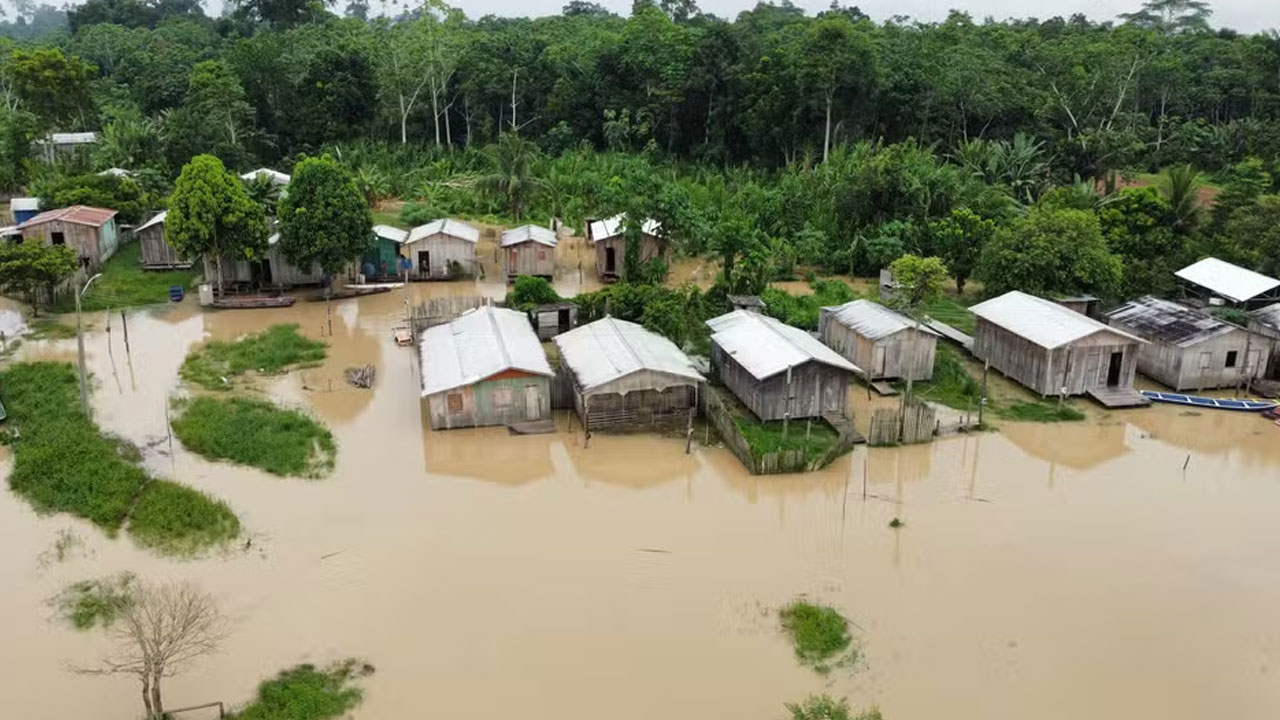
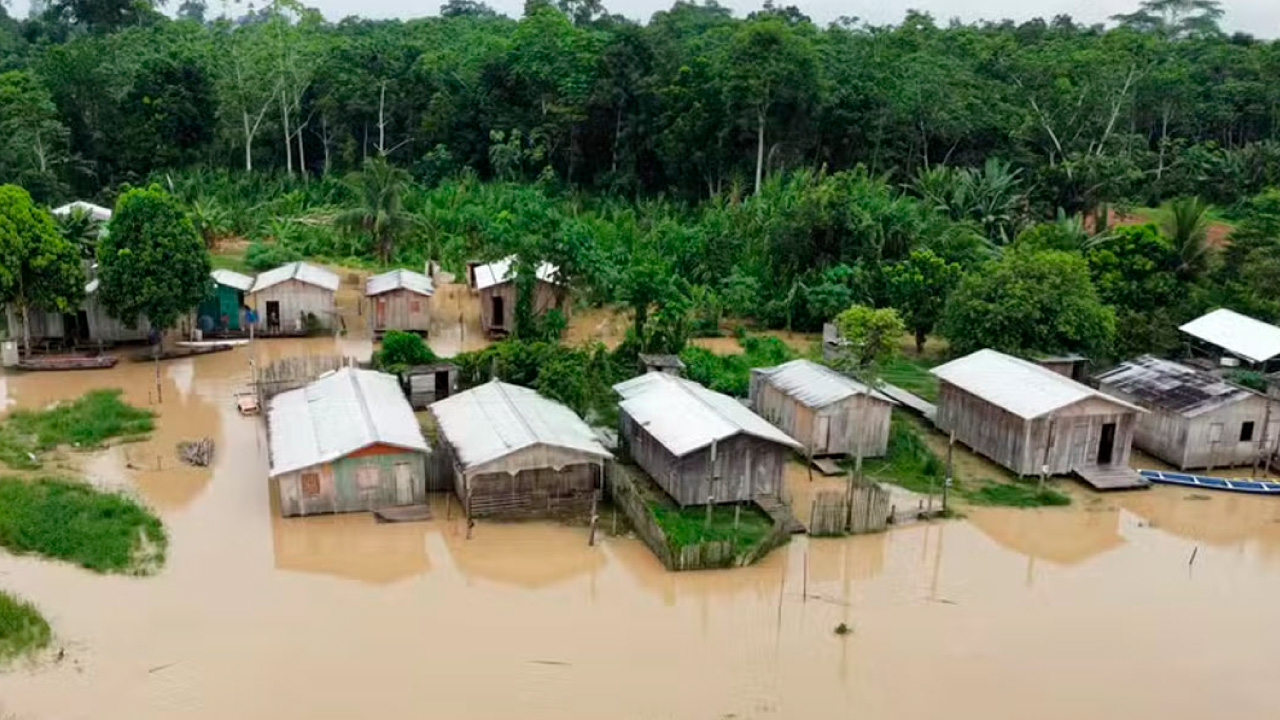
Ajuste cards aula 3.1

diff --git a/modulo3/aula1.html b/modulo3/aula1.html
@@ -158,12 +158,12 @@
 										<img src="../media/images/modulo3/aula1-img2.jpg" alt="">
 									</div>
 
-									<div class="card-header h-100">
-										<span class="">Os efeitos da seca prolongada em todo o país</span>
+									<div class="card-body py-2">
+										<p class="figure-caption fonte">Fonte: Arquivo/Agência Brasil</p>
 									</div>
 
-									<div class="card-body">
-										<p>Fonte: Arquivo/Agência Brasil</p>
+									<div class="card-header h-100">
+										<span class="">Os efeitos da seca prolongada em todo o país</span>
 									</div>
 								</div>
 							</div>
@@ -174,12 +174,12 @@
 										<img src="../media/images/modulo3/aula1-img3.jpg" alt="">
 									</div>
 
-									<div class="card-header h-100">
-										<span class="">Inundações graduais da Amazônia</span>
+									<div class="card-body py-2">
+										<p class="figure-caption fonte">Fonte: Divulgação/Defesa Civil</p>
 									</div>
 
-									<div class="card-body">
-										<p>Fonte: Divulgação/Defesa Civil</p>
+									<div class="card-header h-100">
+										<span class="">Inundações graduais da Amazônia</span>
 									</div>
 								</div>
 							</div>
@@ -190,12 +190,12 @@
 										<img src="../media/images/modulo3/aula1-img4.jpg" alt="">
 									</div>
 
-									<div class="card-header h-100">
-										<span class="">Crises de abastecimento urbano em decorrência de longas estiagens</span>
+									<div class="card-body py-2">
+										<p class="figure-caption fonte">Fonte: Marcelo Camargo/ Agência Brasil</p>
 									</div>
 
-									<div class="card-body">
-										<p>Fonte: Marcelo Camargo/ Agência Brasil</p>
+									<div class="card-header h-100">
+										<span class="">Crises de abastecimento urbano em decorrência de longas estiagens</span>
 									</div>
 								</div>
 							</div>
